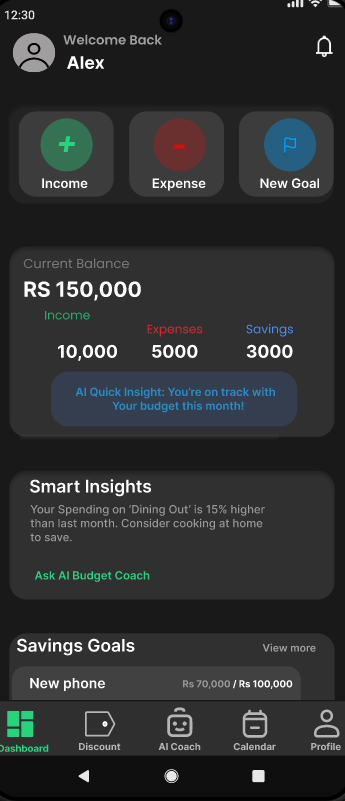
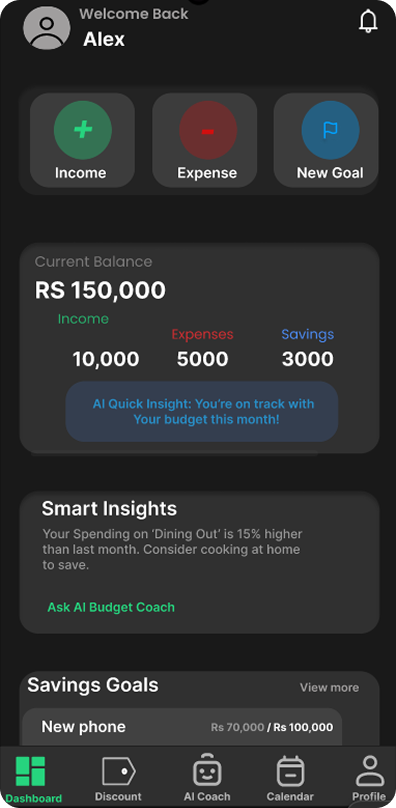
hellow

diff --git a/HTML/home.html b/HTML/home.html
@@ -11,11 +11,9 @@
     <nav>
         <div class="container">
             <div class="logo">
-                <svg width="40" height="40" viewBox="0 0 635 635" xmlns="http://www.w3.org/2000/svg">
-                    <path d="M355 120C355 120 390 120 390 120C390 120 390 155 390 155C390 155 425 155 425 155C425 155 425 120 425 120C425 120 520 120 520 120C520 120 520 280 520 280C520 280 425 280 425 280C425 280 425 245 425 245C425 245 390 245 390 245C390 245 390 280 390 280C390 280 355 280 355 280C355 280 355 120 355 120Z M258 280C258 280 258 445 258 445C258 445 210 445 210 445C210 445 210 480 210 480C210 480 245 480 245 480C245 480 245 515 245 515C245 515 115 515 115 515C115 515 115 355 115 355C115 355 210 355 210 355C210 355 210 390 210 390C210 390 245 390 245 390C245 390 245 355 245 355C245 355 258 355 258 355C258 355 258 280 258 280Z" fill="#10b981"/>
-                </svg>
-                SaveOnix
+                <img src="/Image/" alt="Logo">
             </div>
+
             <div class="nav-links">
                 <a href="#features">Features</a>
                 <a href="#how-it-works">How It Works</a>
@@ -29,15 +27,11 @@
     <section class="hero">
         <div class="container">
             <div class="hero-content">
-                <h1>SaveOnix</h1>
-                <p class="tagline">Save Smarter With AI</p>
+                <h1 class="gradient-text"> Take Control Of Your Finances - With Our AI Buddy
+</h1>
+                <p class="tagline">Smart, Simple, Secure, Save Better</p>
                 <p class="description">
-                    SaveOnix is your intelligent financial companion that revolutionizes the way you manage money. 
-                    Using cutting-edge AI technology, we automatically track your expenses, analyze your spending patterns, 
-                    and provide personalized insights to help you save more effortlessly. From voice-activated expense logging 
-                    to smart savings goals and real-time discount alerts, SaveOnix transforms financial management into a 
-                    seamless, intuitive experience. Join thousands of users who are already building better financial habits 
-                    and achieving their savings goals with the power of AI.
+                    All your money insights, finally in one place - track income, track spending, track savings and reach your goals with ease
                 </p>
                 <div class="hero-buttons">
                     <a href="#features" class="btn-primary">Explore Features</a>
@@ -47,9 +41,17 @@
                         <rect x="20" y="20" width="260" height="560" rx="30" fill="#0a0a0a"/>
                         <rect x="30" y="50" width="240" height="500" rx="20" fill="#191919"/>
                         <circle cx="150" cy="35" r="3" fill="#10b981"/>
-                        <text x="150" y="100" text-anchor="middle" font-size="24" font-weight="bold" fill="#10b981">SaveOnix</text>
-                        <circle cx="80" cy="150" r="30" fill="#10b981" opacity="0.2"/>
                         
+                        <image  
+                            href="/Image/Screenshot 2025-11-22 122010.png"
+                            width = "240"
+                            height = "500"
+                            x = "30"
+                            y="60"
+
+                        />
+
+
                     </svg>
                 </div>
             </div>
@@ -105,41 +107,9 @@
         </div>
     </section>
 
-    <!-- Stats Section -->
-    <section class="stats">
-        <div class="container">
-            <div class="stats-grid">
-                <div class="stat-item">
-                    <h2>$2.5M+</h2>
-                    <p>Total Saved by Users</p>
-                </div>
-                <div class="stat-item">
-                    <h2>50K+</h2>
-                    <p>Active Users</p>
-                </div>
-                <div class="stat-item">
-                    <h2>4.8★</h2>
-                    <p>App Store Rating</p>
-                </div>
-                <div class="stat-item">
-                    <h2>95%</h2>
-                    <p>User Satisfaction</p>
-                </div>
-            </div>
-        </div>
-    </section>
 
-    <!-- CTA Section -->
-    <section class="cta" id="download">
-        <div class="container">
-            <h2>Start Saving Smarter Today</h2>
-            <p>Join thousands of users who are already saving more with SaveOnix</p>
-            <div class="hero-buttons">
-                <a href="#" class="btn-primary">Download for iOS</a>
-                <a href="#" class="btn-primary">Download for Android</a>
-            </div>
-        </div>
-    </section>
+  
+    
 
     <!-- Footer -->
     <footer>

diff --git a/CSS/home.css b/CSS/home.css
@@ -4,6 +4,21 @@
     box-sizing: border-box;
 }
 
+.gradient-text {
+  font-size: 48px; /* adjust as needed */
+  font-weight: bold;
+  background:  -webkit-linear-gradient(#14793d, #11e3ab);
+  -webkit-background-clip: text;
+  -webkit-text-fill-color: transparent;
+  background-clip: text;
+  color: transparent;
+}
+
+.image{
+    width: auto;
+    height: fit-content;
+}
+
 body {
     font-family: 'Segoe UI', Tahoma, Geneva, Verdana, sans-serif;
     color: #e5e7eb;
@@ -38,10 +53,9 @@ nav .container {
 .logo {
     font-size: 28px;
     font-weight: bold;
-    color: #10b981;
     display: flex;
     align-items: center;
-    gap: 10px;
+    gap: 100px;
 }
 
 .logo img {
